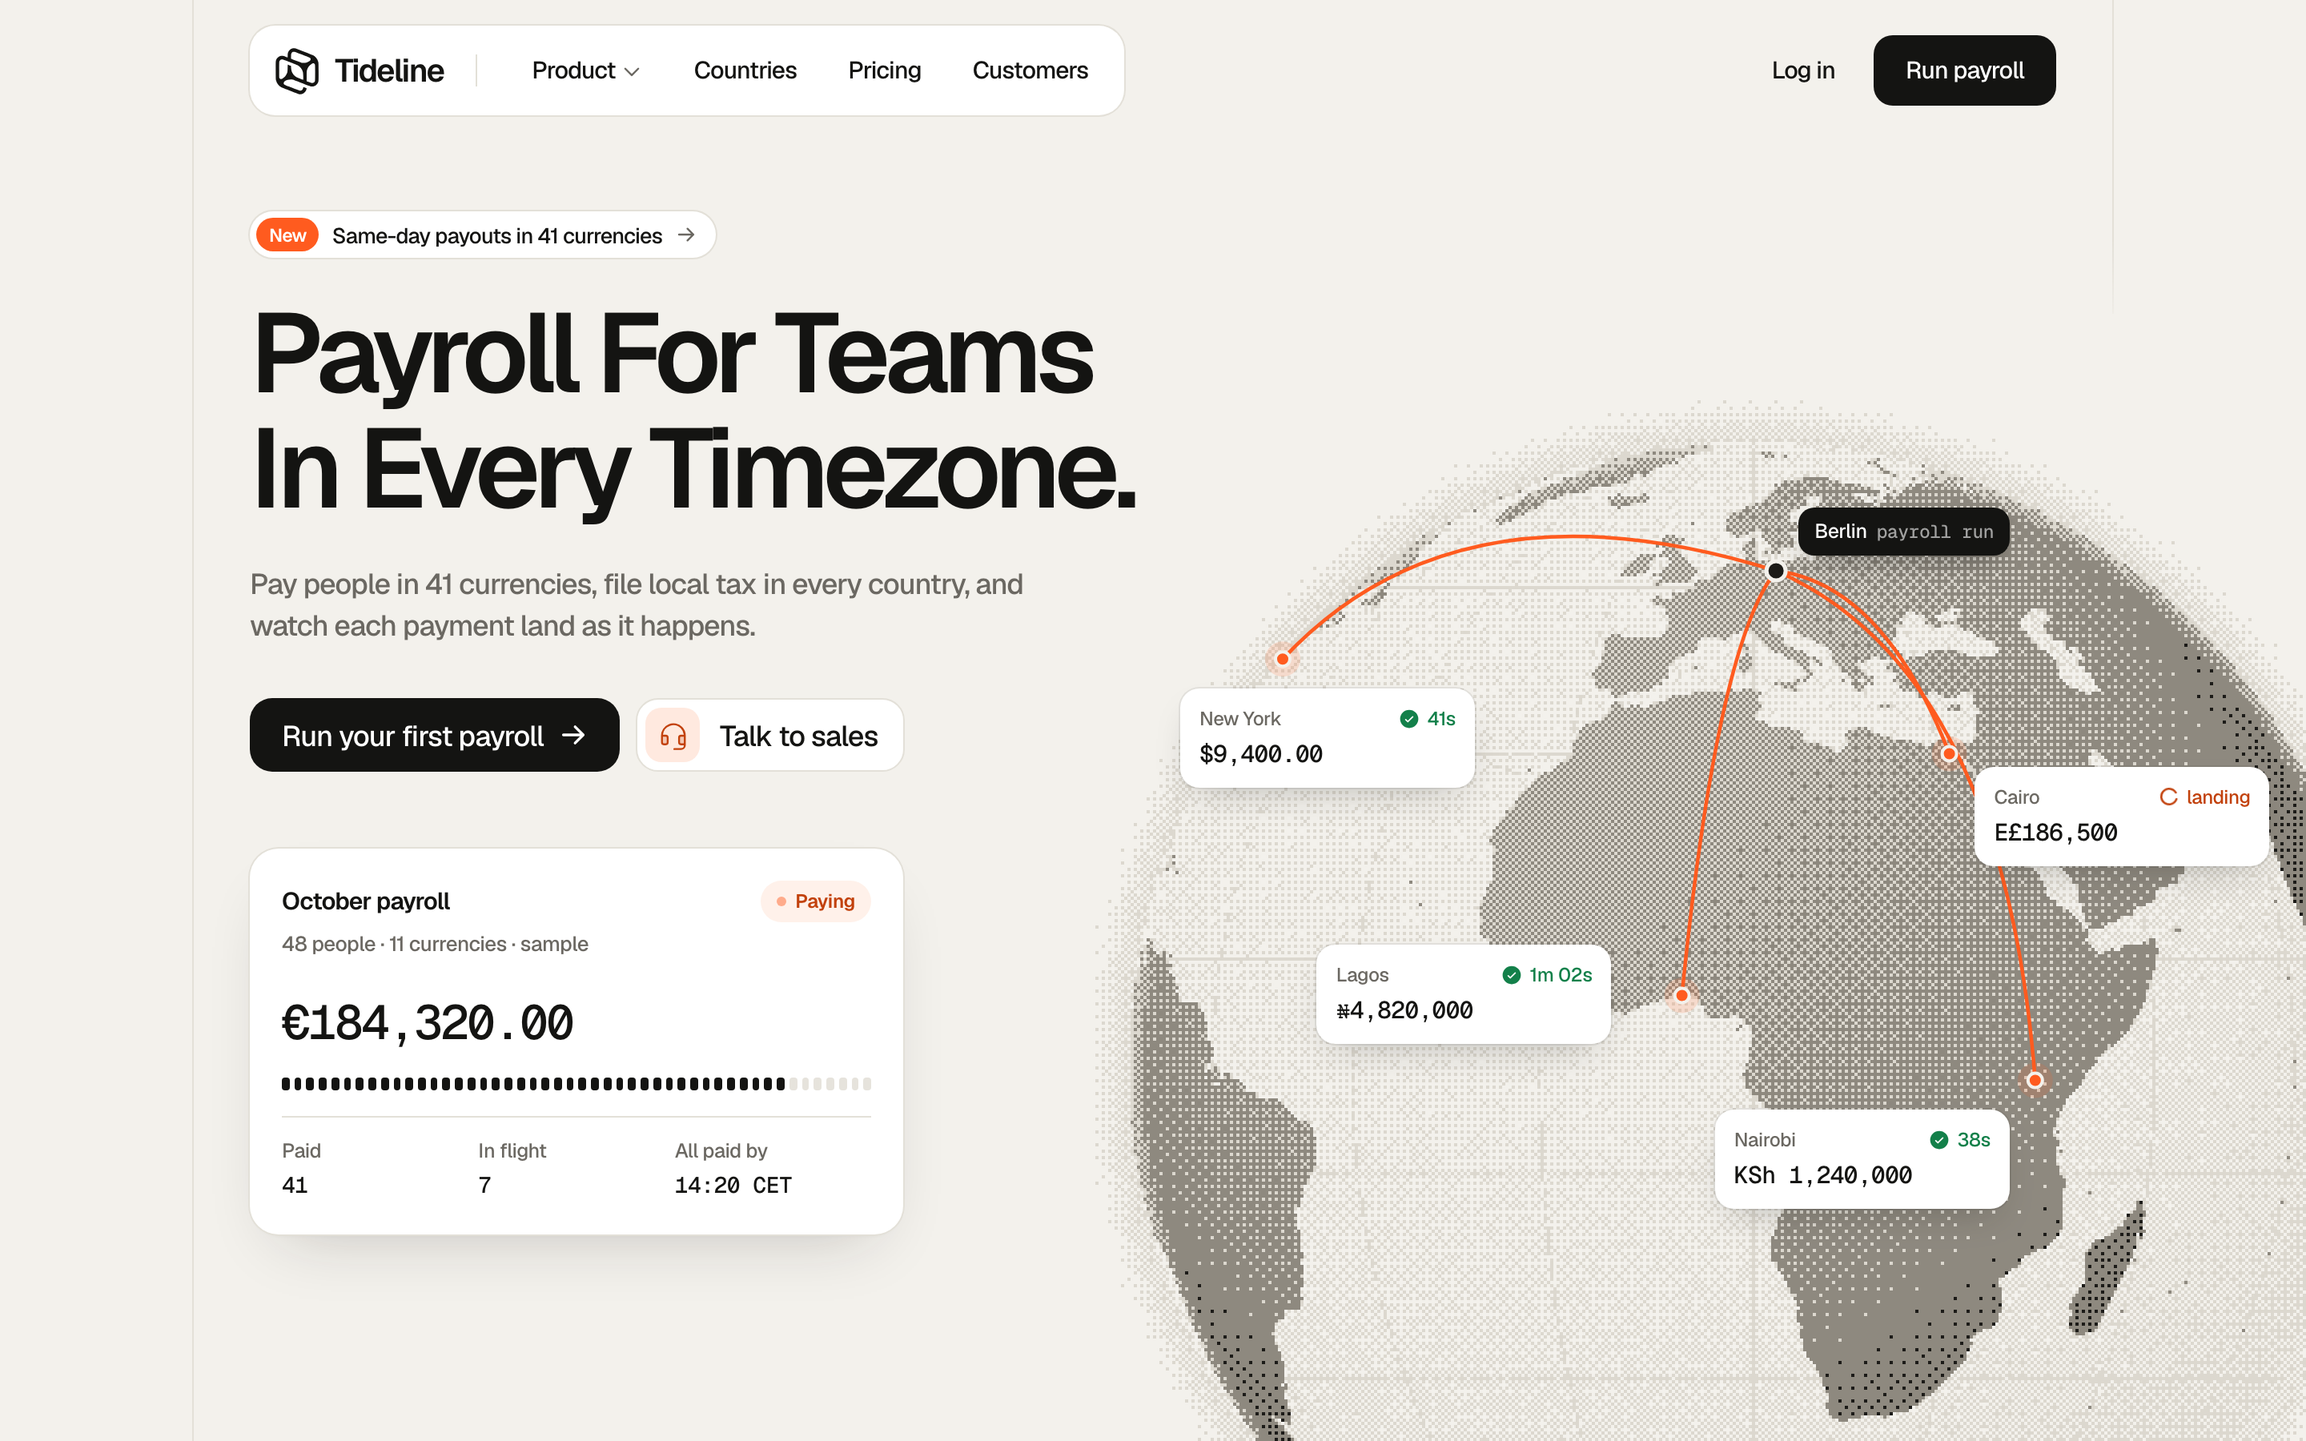
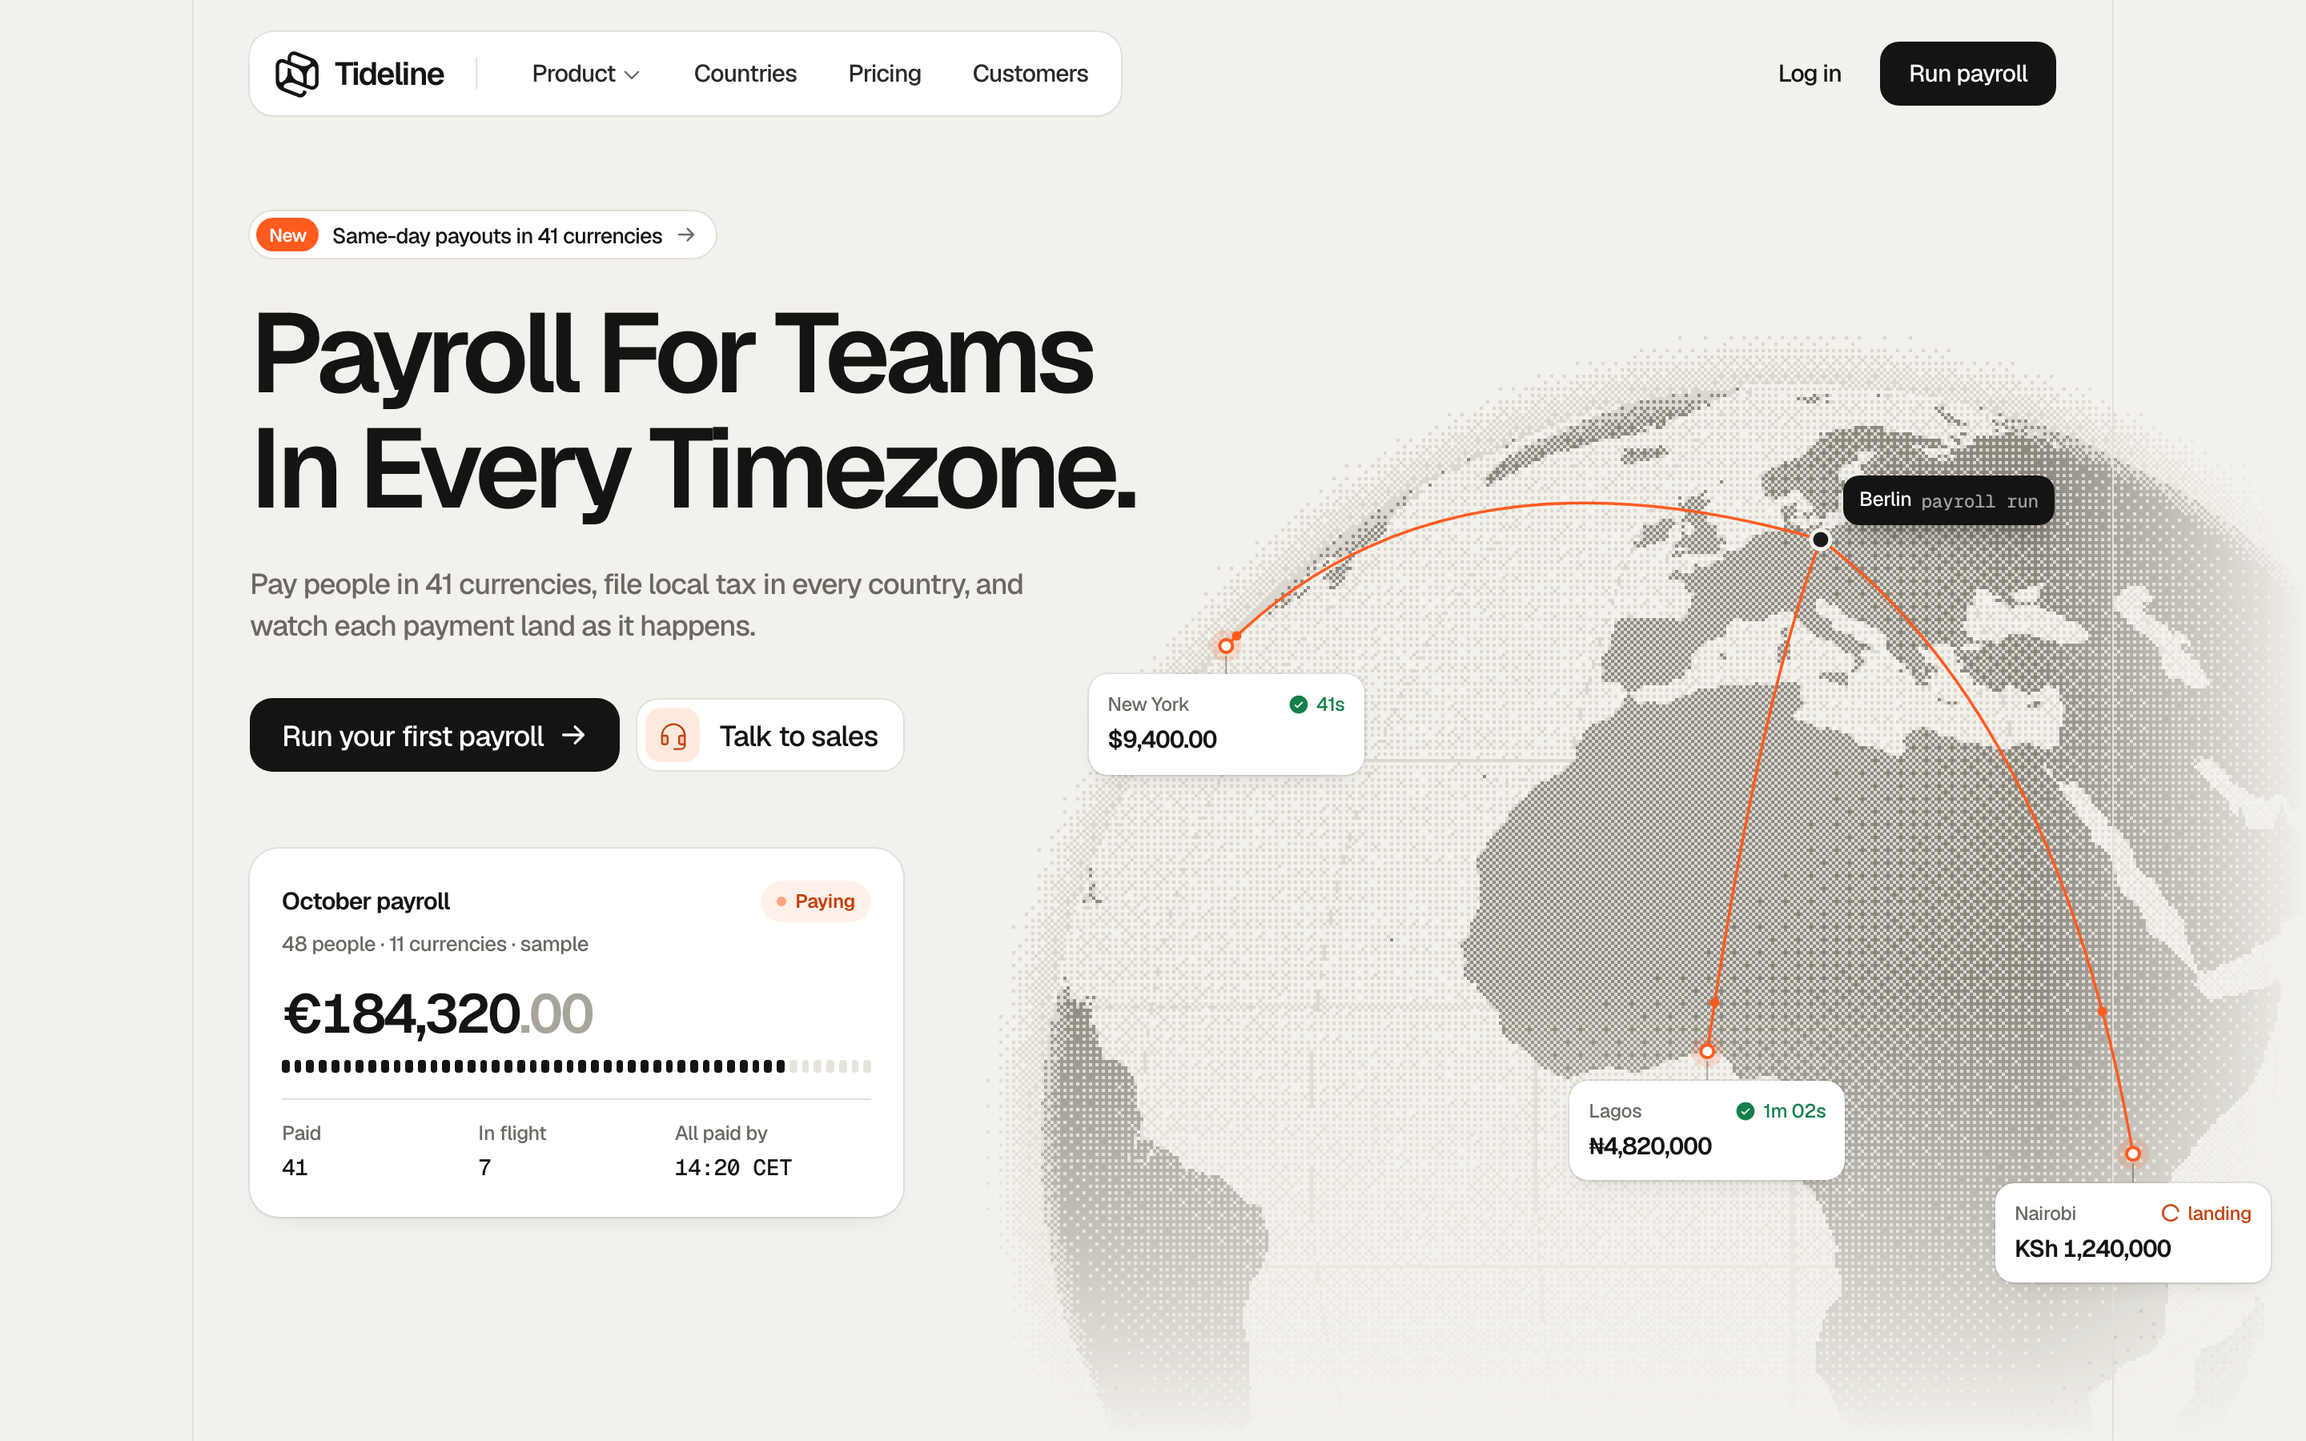
Tideline round 4: bigger edge-faded globe, 3 clean routes with travelling dots and leader-anchored chips, quiet card depth, full-height rails, nav polish; 6 new founder rules; payroll references captured

diff --git a/work/flagship-tideline/app/src/App.tsx b/work/flagship-tideline/app/src/App.tsx
@@ -5,22 +5,22 @@ import { Globe } from './components/Globe'
 import { CITIES, HQ, project } from './components/geo'
 
 // Globe stage geometry (page px, desktop 1440x900).
-const STAGE = { left: 620, top: 196, w: 860, h: 704 }
-const G = { cx: 475, cy: 470, r: 390 }
+const STAGE = { left: 600, top: 150, w: 840, h: 750 }
+const G = { cx: 520, cy: 560, r: 470 }
 const pt = (lat: number, lon: number) => { const p = project(lat, lon); return { x: G.cx + G.r * p.x, y: G.cy - G.r * p.y } }
 const HQP = pt(HQ.lat, HQ.lon)
 
-const PAYOUTS: Record<string, { amount: string; status: 'arrived' | 'flight'; time: string; dx: number; dy: number }> = {
-  nyc: { amount: '$9,400.00', status: 'arrived', time: '41s', dx: -64, dy: 18 },
-  los: { amount: '₦4,820,000', status: 'arrived', time: '1m 02s', dx: -228, dy: -32 },
-  cai: { amount: 'E£186,500', status: 'flight', time: 'landing', dx: 16, dy: 8 },
-  nbo: { amount: 'KSh 1,240,000', status: 'arrived', time: '38s', dx: -200, dy: 18 },
+const PAYOUTS: Record<string, { amount: string; status: 'arrived' | 'flight'; time: string }> = {
+  nyc: { amount: '$9,400.00', status: 'arrived', time: '41s' },
+  los: { amount: '₦4,820,000', status: 'arrived', time: '1m 02s' },
+  nbo: { amount: 'KSh 1,240,000', status: 'flight', time: 'landing' },
 }
 
-function arc(a: { x: number; y: number }, b: { x: number; y: number }) {
+const LIFT: Record<string, number> = { nyc: 0.3, los: 0.16, nbo: 0.22 }
+function arc(a: { x: number; y: number }, b: { x: number; y: number }, k = 0.32) {
   const mx = (a.x + b.x) / 2, my = (a.y + b.y) / 2
   const nx = mx - G.cx, ny = my - G.cy, nl = Math.hypot(nx, ny) || 1
-  const lift = Math.hypot(b.x - a.x, b.y - a.y) * 0.32
+  const lift = Math.hypot(b.x - a.x, b.y - a.y) * k
   return `M${a.x.toFixed(1)} ${a.y.toFixed(1)} Q${(mx + (nx / nl) * lift).toFixed(1)} ${(my + (ny / nl) * lift).toFixed(1)} ${b.x.toFixed(1)} ${b.y.toFixed(1)}`
 }
 
@@ -39,26 +39,30 @@ export default function App() {
   return (
     <div className="relative h-[900px] min-w-[1440px] overflow-hidden bg-paper">
       <div aria-hidden="true" className="pointer-events-none absolute inset-y-0 left-[120px] z-0 w-px bg-line" />
-      <div aria-hidden="true" className="pointer-events-none absolute inset-y-0 left-[1319px] z-0 w-px bg-line [mask-image:linear-gradient(to_bottom,#000_0,#000_150px,transparent_215px)]" />
+      <div aria-hidden="true" className="pointer-events-none absolute inset-y-0 left-[1319px] z-[5] w-px bg-line" />
 
       {/* globe stage */}
-      <div className="absolute" style={{ left: STAGE.left, top: STAGE.top, width: STAGE.w, height: STAGE.h }}>
+      <div className="absolute [mask-composite:intersect] [mask-image:linear-gradient(to_bottom,#000_62%,transparent_100%),linear-gradient(to_right,#000_80%,transparent_100%)]" style={{ left: STAGE.left, top: STAGE.top, width: STAGE.w, height: STAGE.h }}>
         <Globe width={STAGE.w} height={STAGE.h} cx={G.cx} cy={G.cy} r={G.r} palette={['#f3f1ec', '#dcd8cf', '#8e897f', '#1c1b18']} />
+      </div>
+      <div className="absolute z-[6]" style={{ left: STAGE.left, top: STAGE.top, width: STAGE.w, height: STAGE.h }}>
         <svg className="absolute inset-0 overflow-visible" width={STAGE.w} height={STAGE.h} aria-hidden="true">
           {CITIES.map((c, i) => {
-            const d = arc(HQP, pt(c.lat, c.lon))
+            const d = arc(HQP, pt(c.lat, c.lon), LIFT[c.id])
             return (
               <g key={c.id}>
-                <path d={d} fill="none" stroke="#1c1b18" strokeOpacity={0.22} strokeWidth={1.25} />
-                <motion.path d={d} fill="none" stroke="#ff5b1f" strokeWidth={2.25} strokeLinecap="round"
+                <path d={d} fill="none" stroke="#1c1b18" strokeOpacity={0.18} strokeWidth={1} />
+                <motion.path d={d} fill="none" stroke="#ff5b1f" strokeWidth={1.75} strokeLinecap="round"
                   initial={reduce ? false : { pathLength: 0 }} animate={{ pathLength: 1 }} transition={{ delay: 0.9 + i * 0.18, duration: 1.1, ease: [0.65, 0, 0.35, 1] }} />
+                {!reduce && <circle r={3} fill="#ff5b1f"><animateMotion dur={`${2.6 + i * 0.35}s`} begin={`${2.2 + i * 0.2}s`} repeatCount="indefinite" path={d} keyPoints="0;1" keyTimes="0;1" calcMode="spline" keySplines="0.4 0 0.2 1" /></circle>}
               </g>
             )
           })}
           {CITIES.map((c) => { const p = pt(c.lat, c.lon); return (
             <g key={c.id + 'dot'}>
-              <circle cx={p.x} cy={p.y} r={11} fill="#ff5b1f" fillOpacity={0.16} className="pulse" />
-              <circle cx={p.x} cy={p.y} r={4.5} fill="#ff5b1f" stroke="#f3f1ec" strokeWidth={2} />
+              <circle cx={p.x} cy={p.y} r={10} fill="#ff5b1f" fillOpacity={0.14} className="pulse" />
+              <circle cx={p.x} cy={p.y} r={4} fill="#fff" stroke="#ff5b1f" strokeWidth={2} />
+              <line x1={p.x} y1={p.y + 6} x2={p.x} y2={p.y + 18} stroke="#1c1b18" strokeOpacity={0.35} strokeWidth={1} />
             </g>) })}
           <circle cx={HQP.x} cy={HQP.y} r={6} fill="#1c1b18" stroke="#f3f1ec" strokeWidth={2.5} />
         </svg>
@@ -69,33 +73,33 @@ export default function App() {
         {CITIES.map((c, i) => {
           const p = pt(c.lat, c.lon), o = PAYOUTS[c.id]
           return (
-            <motion.div key={c.id + 'chip'} {...fade(1.6 + i * 0.16)} className="absolute w-[184px] rounded-[12px] bg-white px-3 py-2.5 shadow-[0_0_0_1px_rgba(28,27,24,0.08),0_10px_24px_-10px_rgba(28,27,24,0.28)]" style={{ left: p.x + o.dx, top: p.y + o.dy }}>
+            <motion.div key={c.id + 'chip'} {...fade(1.6 + i * 0.16)} className="absolute w-[172px] -translate-x-1/2 rounded-[12px] bg-white px-3 py-2.5 shadow-[0_0_0_1px_rgba(28,27,24,0.08),0_1px_2px_rgba(28,27,24,0.05),0_6px_16px_-8px_rgba(28,27,24,0.16)]" style={{ left: p.x, top: p.y + 18 }}>
               <div className="flex items-center justify-between text-[12px] font-medium tracking-[-0.02em] text-muted">
                 <span>{c.name}</span>
                 {o.status === 'arrived'
                   ? <span className="inline-flex items-center gap-1 text-[#13804a]"><CheckCircle size={14} weight="fill" />{o.time}</span>
                   : <span className="inline-flex items-center gap-1 text-[#c2410c]"><CircleNotch size={13} weight="bold" className="spin" />{o.time}</span>}
               </div>
-              <div className="mt-0.5 font-mono text-[15px] font-medium tracking-[-0.03em] text-ink tabular-nums">{o.amount}</div>
+              <div className="mt-0.5 text-[15px] font-semibold tracking-[-0.035em] text-ink tabular-nums">{o.amount}</div>
             </motion.div>
           )
         })}
       </div>
 
       {/* header: logo + links pill on the left, actions on the right, both on the content edges */}
-      <header className="relative z-20 mx-auto flex w-[1128px] items-center justify-between pt-4">
-        <nav aria-label="Primary" className="flex h-14 items-center rounded-[16px] bg-white pr-2 pl-4 shadow-[0_0_0_1px_var(--color-line)]">
+      <header className="relative z-20 mx-auto flex w-[1128px] items-center justify-between pt-5">
+        <nav aria-label="Primary" className="flex h-[52px] items-center rounded-[15px] bg-white pr-1.5 pl-4 shadow-[0_0_0_1px_rgba(28,27,24,0.07),0_1px_2px_rgba(28,27,24,0.04)]">
           <Logo />
           <span aria-hidden="true" className="mx-5 h-5 w-px bg-line" />
           <ul className="flex items-center gap-1 text-[15px] font-medium tracking-[-0.03em]">
             {['Product', 'Countries', 'Pricing', 'Customers'].map((l, i) => (
-              <li key={l}><a href="#" className="inline-flex h-10 items-center gap-1 rounded-[10px] px-3.5 text-ink no-underline transition-colors hover:bg-paper">{l}{i === 0 && <CaretDown size={13} weight="bold" className="text-muted" />}</a></li>
+              <li key={l}><a href="#" className="inline-flex h-10 items-center gap-1 rounded-[11px] px-3.5 text-[#2a2926] no-underline transition-colors hover:bg-paper hover:text-ink">{l}{i === 0 && <CaretDown size={13} weight="bold" className="text-muted" />}</a></li>
             ))}
           </ul>
         </nav>
         <div className="flex items-center gap-2">
-          <a href="#" className="inline-flex h-11 items-center rounded-[12px] px-4 text-[15px] font-medium tracking-[-0.03em] text-ink no-underline transition-colors hover:bg-white">Log in</a>
-          <a href="#" className="inline-flex h-11 items-center rounded-[12px] bg-ink px-5 text-[15px] font-medium tracking-[-0.03em] text-white no-underline transition-colors hover:bg-[#303030]">Run payroll</a>
+          <a href="#" className="inline-flex h-10 items-center rounded-[12px] px-4 text-[15px] font-medium tracking-[-0.03em] text-ink no-underline transition-colors hover:bg-white">Log in</a>
+          <a href="#" className="inline-flex h-10 items-center rounded-[12px] bg-ink px-[18px] text-[15px] font-medium tracking-[-0.03em] text-white no-underline transition-colors hover:bg-[#303030]">Run payroll</a>
         </div>
       </header>
 
@@ -123,13 +127,13 @@ export default function App() {
         </motion.div>
 
         {/* product proof: the payroll run the arcs are paying out */}
-        <motion.section {...fade(0.3)} aria-label="Sample payroll run" className="mt-12 w-[408px] rounded-[18px] bg-white p-5 shadow-[0_0_0_1px_var(--color-line),0_1px_2px_rgba(28,27,24,0.04),0_18px_40px_-20px_rgba(28,27,24,0.24)]">
+        <motion.section {...fade(0.3)} aria-label="Sample payroll run" className="mt-12 w-[408px] rounded-[18px] bg-white p-5 shadow-[0_0_0_1px_rgba(28,27,24,0.08),0_1px_2px_rgba(28,27,24,0.05),0_8px_20px_-12px_rgba(28,27,24,0.12)]">
           <div className="flex items-center justify-between">
             <div className="text-[15px] font-semibold tracking-[-0.03em] text-ink">October payroll</div>
             <span className="inline-flex items-center gap-1.5 rounded-full bg-[#fff1ea] px-2.5 py-1 text-[12px] font-semibold tracking-[-0.02em] text-[#c2410c]"><span className="pulse-dot size-1.5 rounded-full bg-[#ff5b1f]" />Paying</span>
           </div>
           <div className="mt-1 text-[13px] font-medium tracking-[-0.02em] text-muted">48 people · 11 currencies · sample</div>
-          <div className="mt-4 font-mono text-[30px] font-medium tracking-[-0.05em] text-ink tabular-nums">€184,320.00</div>
+          <div className="mt-4 text-[34px] leading-none font-semibold tracking-[-0.045em] text-ink tabular-nums">€184,320<span className="text-[#a8a49b]">.00</span></div>
           <div className="mt-3 flex h-2 gap-[3px]">
             {Array.from({ length: 48 }, (_, i) => <span key={i} className={`flex-1 rounded-[2px] ${i < 41 ? 'bg-ink' : 'bg-[#e6e3dc]'}`} />)}
           </div>

diff --git a/work/flagship-tideline/app/src/components/geo.ts b/work/flagship-tideline/app/src/components/geo.ts
@@ -5,7 +5,6 @@ export const HQ: City = { id: 'ber', name: 'Berlin', lat: 52.52, lon: 13.4 }
 export const CITIES: City[] = [
   { id: 'nyc', name: 'New York', lat: 40.71, lon: -74.0 },
   { id: 'los', name: 'Lagos', lat: 6.52, lon: 3.38 },
-  { id: 'cai', name: 'Cairo', lat: 30.04, lon: 31.24 },
   { id: 'nbo', name: 'Nairobi', lat: -1.29, lon: 36.82 },
 ]
 const rad = (d: number) => (d * Math.PI) / 180

diff --git a/knowledge/founder/founder-taste.md b/knowledge/founder/founder-taste.md
@@ -67,6 +67,30 @@ Every rule here is a direct founder verdict on real output. It outranks books, w
   **Why** Founder: "no mobile just desktop focus right now to get me an image".
   **Applies to** hero images, X posts. **Check** n/a. **Source** founder, Tideline round 1
 
+- **RULE** [founder] Floating cards use quiet depth: a 1px hairline ring plus a faint lift (about 0 8px 20px -12px at 12% ink). Never a large, blurry, high-opacity drop shadow.
+  **Why** Founder: "why so massive shadow and unprofessional stuff"; Deel/Rippling references use whisper-level shadows.
+  **Applies to** all cards, chips, popovers. **Check** box-shadow blur <= 24px and alpha <= 0.16 on cards. **Source** founder, Tideline round 4
+
+- **RULE** [founder] Side rails/dividers run the full height of the hero; never fade them out early. If artwork meets a rail, the rail stays on top and the artwork fades instead.
+  **Why** Founder: the right border "fading off too soon" looked broken.
+  **Applies to** marketing site. **Check** both rails span the full hero height. **Source** founder, Tideline round 4
+
+- **RULE** [founder] A large hero visual that touches the frame edge dissolves softly into the page (mask fade) instead of being hard-cropped mid-shape; make it big enough to feel intentional.
+  **Why** Founder: the globe needed to be "bigger or blurred out at sides where it touches".
+  **Applies to** hero visuals. **Check** visual: no hard crop line on the visual at the frame edge. **Source** founder, Tideline round 4
+
+- **RULE** [founder] Data callouts on a visual all follow one placement rule (same side of their point, short leader line), never cover their own line or another route, and are curated to the clearest three rather than five.
+  **Why** Founder: the travelling points "are a bit off and need to be placed better".
+  **Applies to** maps, charts, annotated visuals. **Check** visual: no callout overlaps any arc or another callout. **Source** founder, Tideline round 4
+
+- **RULE** [founder] Money amounts in hero product UI are bold sans (Geist semibold, tight tracking, tabular) with the decimals muted; mono is for meta (times, IDs), not headline figures.
+  **Why** Founder asked for the money card to be styled better; Deel's payroll card is the reference.
+  **Applies to** product proof. **Check** large currency figures use the sans family. **Source** founder, Tideline round 4
+
+- **RULE** [founder] Look at several strong real references for the same product category before redesigning a weak area (for payroll: Deel, Remote, Rippling in knowledge/references/payroll/).
+  **Why** Founder: "search for more examples or what would look better and cleaner".
+  **Applies to** every redesign round. **Check** DIRECTION.md cites the references opened. **Source** founder, Tideline round 4
+
 ## 5. Exceptions & judgement calls
 
 - The split layout (copy left, visual right) was rejected by Larpo when the right side was a decorative dashboard. With a real product world on the right (the payout globe) the founder accepted it.
